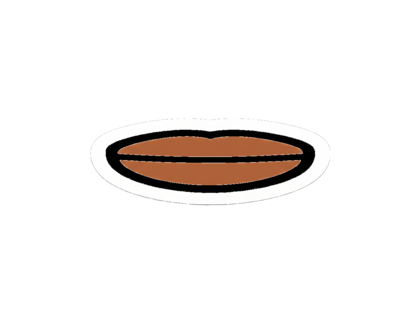
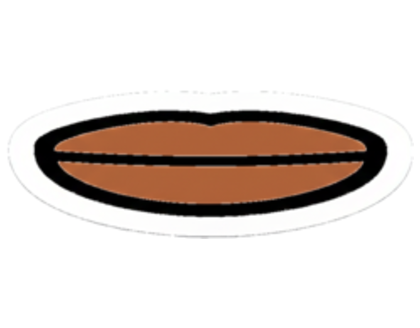
fix: finalize lip sync with 3 mouth shapes
- Keep only 3 mouth shapes: closed, small, o
- Remove medium, wide, ee mouth shapes
- Resize all mouths to consistent 150px height
- Disable rate limiting for Phase 1 admin mode
- Fix lip sync volume thresholds

diff --git a/src/app/api/generate-video/route.ts b/src/app/api/generate-video/route.ts
@@ -10,13 +10,12 @@ const VIDEO_HEIGHT = 1080;
 const FPS = 30;
 
 // Mouth shapes available
-const MOUTH_SHAPES = ["closed", "small", "medium", "o"] as const;
+const MOUTH_SHAPES = ["closed", "small", "o"] as const;
 type MouthShape = (typeof MOUTH_SHAPES)[number];
 
 const MOUTH_FILES: Record<MouthShape, string> = {
   closed: "mouth-closed.png",
   small: "mouth-open-small.png",
-  medium: "mouth-open-medium.png",
   o: "mouth-o.png",
 };
 
@@ -277,8 +276,7 @@ function interpolateToFrames(values: number[], targetCount: number): number[] {
 
 function volumeToMouthShape(volume: number): MouthShape {
   if (volume < 0.2) return "closed";
-  if (volume < 0.45) return "small";
-  if (volume < 0.7) return "medium";
+  if (volume < 0.5) return "small";
   return "o";
 }
 
@@ -320,32 +318,11 @@ async function generateFrame(
   const mouthX = charX + Math.floor((characterSize - mouthWidth) / 2);
   const mouthY = charY + Math.floor(characterSize * 0.52) - Math.floor(mouthHeight / 2);
 
-  // Create subtitle overlay
-  const subtitleHeight = 120;
-  const subtitleY = height - subtitleHeight - 50;
-
-  // Wrap text for subtitle
-  const maxCharsPerLine = 40;
-  const wrappedText = wrapText(text, maxCharsPerLine);
-
-  const subtitleSvg = `
-    <svg width="${width}" height="${subtitleHeight}">
-      <rect x="40" y="0" width="${width - 80}" height="${subtitleHeight}" rx="10" fill="rgba(0,0,0,0.8)"/>
-      <text x="${width / 2}" y="${subtitleHeight / 2 + 8}"
-            font-family="Arial, sans-serif" font-size="32" font-weight="bold"
-            fill="white" text-anchor="middle" dominant-baseline="middle">
-        ${escapeXml(wrappedText)}
-      </text>
-    </svg>
-  `;
-  const subtitleBuffer = Buffer.from(subtitleSvg);
-
-  // Composite everything
+  // Composite everything (no subtitles)
   const frame = await background
     .composite([
       { input: resizedCharacter, left: charX, top: charY },
       { input: resizedMouth, left: mouthX, top: mouthY },
-      { input: subtitleBuffer, left: 0, top: subtitleY },
     ])
     .png()
     .toBuffer();

diff --git a/src/lib/useLipSync.ts b/src/lib/useLipSync.ts
@@ -2,7 +2,7 @@
 
 import { useState, useEffect, useRef } from "react";
 
-type MouthShape = "closed" | "small" | "medium" | "o";
+type MouthShape = "closed" | "small" | "o";
 
 interface UseLipSyncOptions {
   audioElement: HTMLAudioElement | null;
@@ -49,12 +49,10 @@ export function useLipSync({ audioElement, isPlaying }: UseLipSyncOptions): Mout
 
       // Map volume to mouth shape
       let shape: MouthShape;
-      if (average < 10) {
+      if (average < 15) {
         shape = "closed";
       } else if (average < 50) {
         shape = "small";
-      } else if (average < 100) {
-        shape = "medium";
       } else {
         shape = "o";
       }

diff --git a/src/app/api/generate/route.ts b/src/app/api/generate/route.ts
@@ -8,19 +8,8 @@ import { checkRateLimit } from "@/lib/rateLimit";
 const TTS_PROVIDER = process.env.TTS_PROVIDER || "minimax";
 
 export async function POST(request: NextRequest) {
-  // Rate limiting
-  const ip =
-    request.headers.get("x-forwarded-for") ||
-    request.headers.get("x-real-ip") ||
-    "unknown";
-  const { allowed, remaining } = checkRateLimit(ip);
-
-  if (!allowed) {
-    return NextResponse.json(
-      { error: "Limite atteinte. Reviens demain!" },
-      { status: 429 }
-    );
-  }
+  // Rate limiting disabled for Phase 1 (admin mode)
+  const remaining = 999;
 
   try {
     const { text } = await request.json();

diff --git a/src/components/BoobaCharacter.tsx b/src/components/BoobaCharacter.tsx
@@ -2,7 +2,7 @@
 
 import Image from "next/image";
 
-export type MouthShape = "closed" | "small" | "medium" | "o";
+export type MouthShape = "closed" | "small" | "o";
 
 interface BoobaCharacterProps {
   mouthShape?: MouthShape;
@@ -11,7 +11,6 @@ interface BoobaCharacterProps {
 const mouthImages: Record<MouthShape, string> = {
   closed: "/booba/mouth-closed.png",
   small: "/booba/mouth-open-small.png",
-  medium: "/booba/mouth-open-medium.png",
   o: "/booba/mouth-o.png",
 };
 

diff --git a/src/app/test/page.tsx b/src/app/test/page.tsx
@@ -3,7 +3,7 @@
 import { useState } from "react";
 import { BoobaCharacter, MouthShape } from "@/components/BoobaCharacter";
 
-const mouthShapes: MouthShape[] = ["closed", "small", "medium", "o"];
+const mouthShapes: MouthShape[] = ["closed", "small", "o"];
 
 export default function TestPage() {
   const [currentMouth, setCurrentMouth] = useState<MouthShape>("closed");
